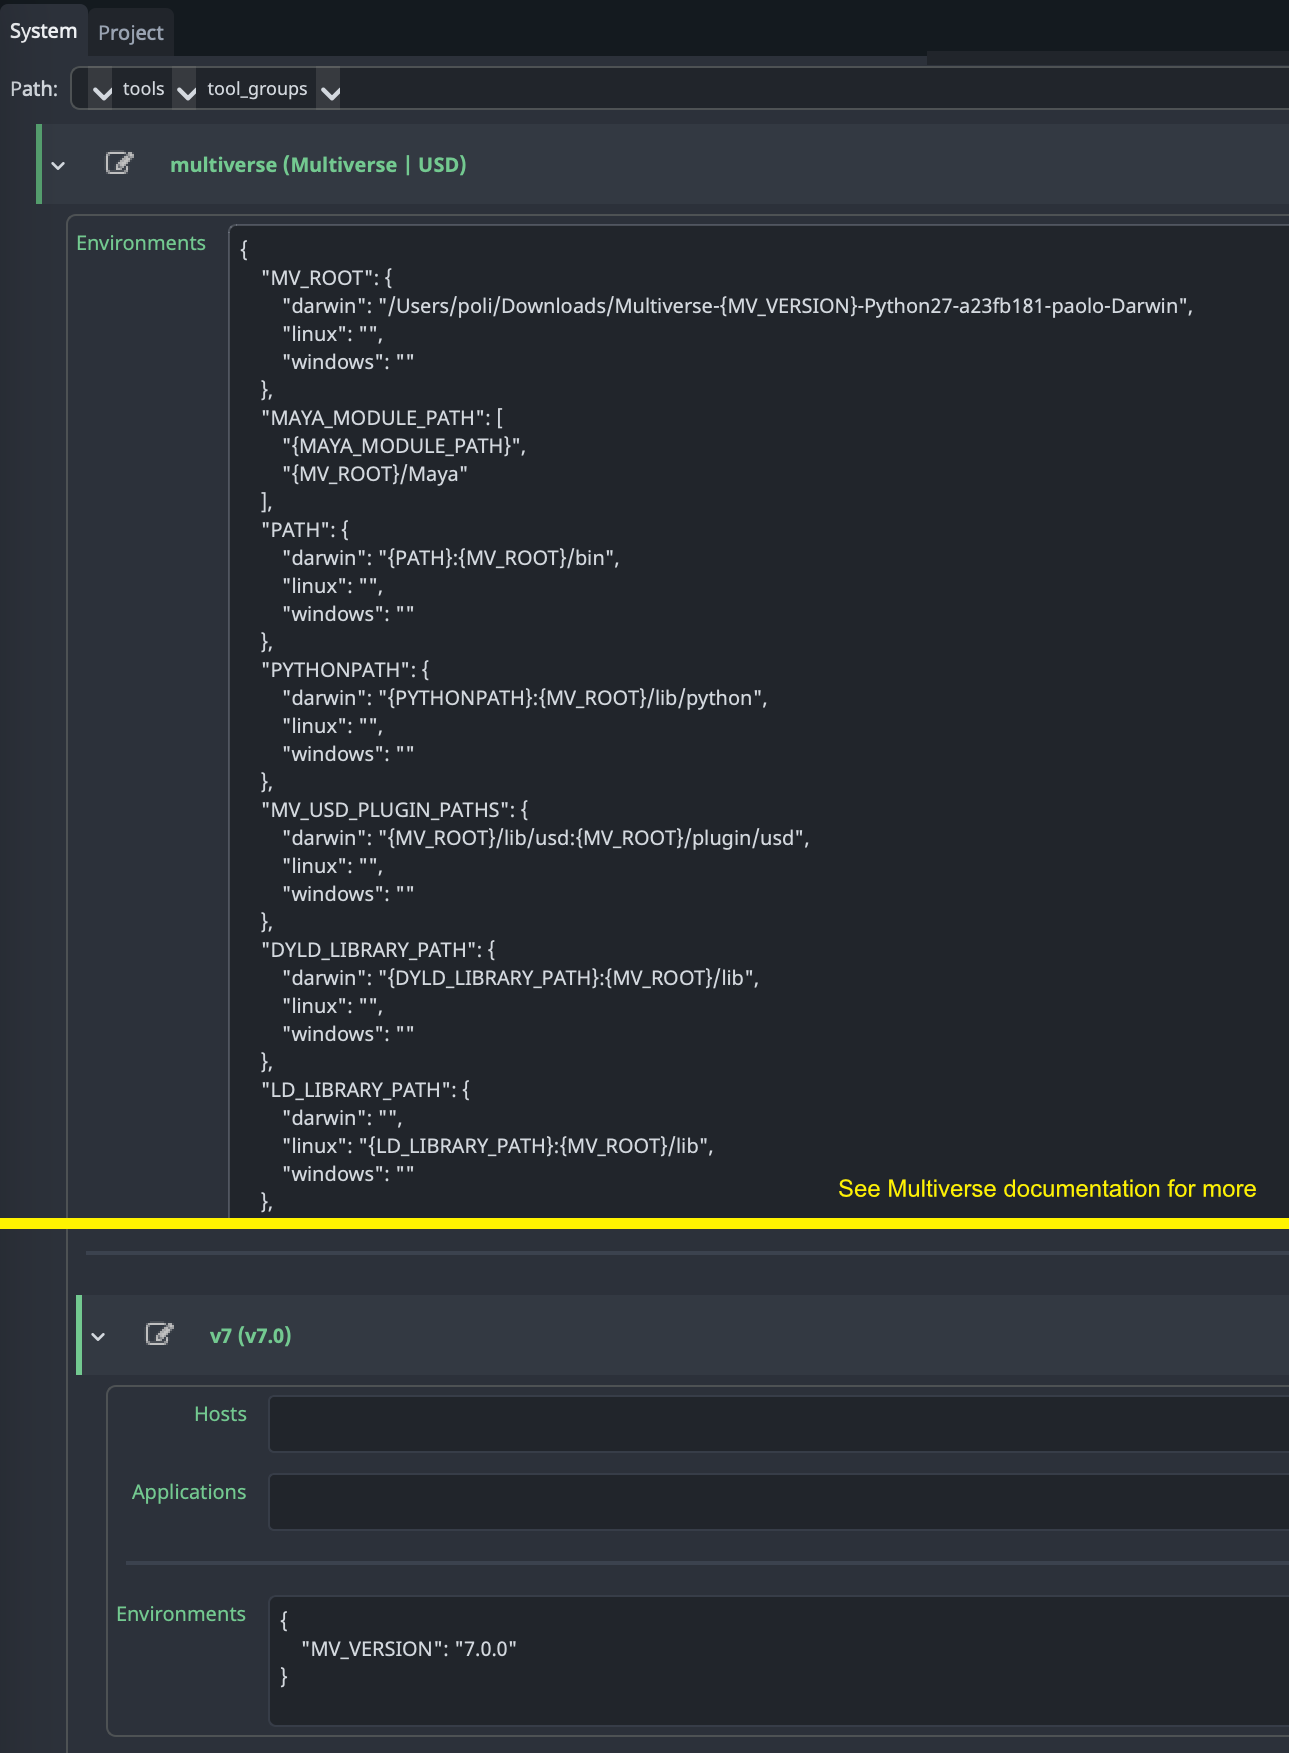
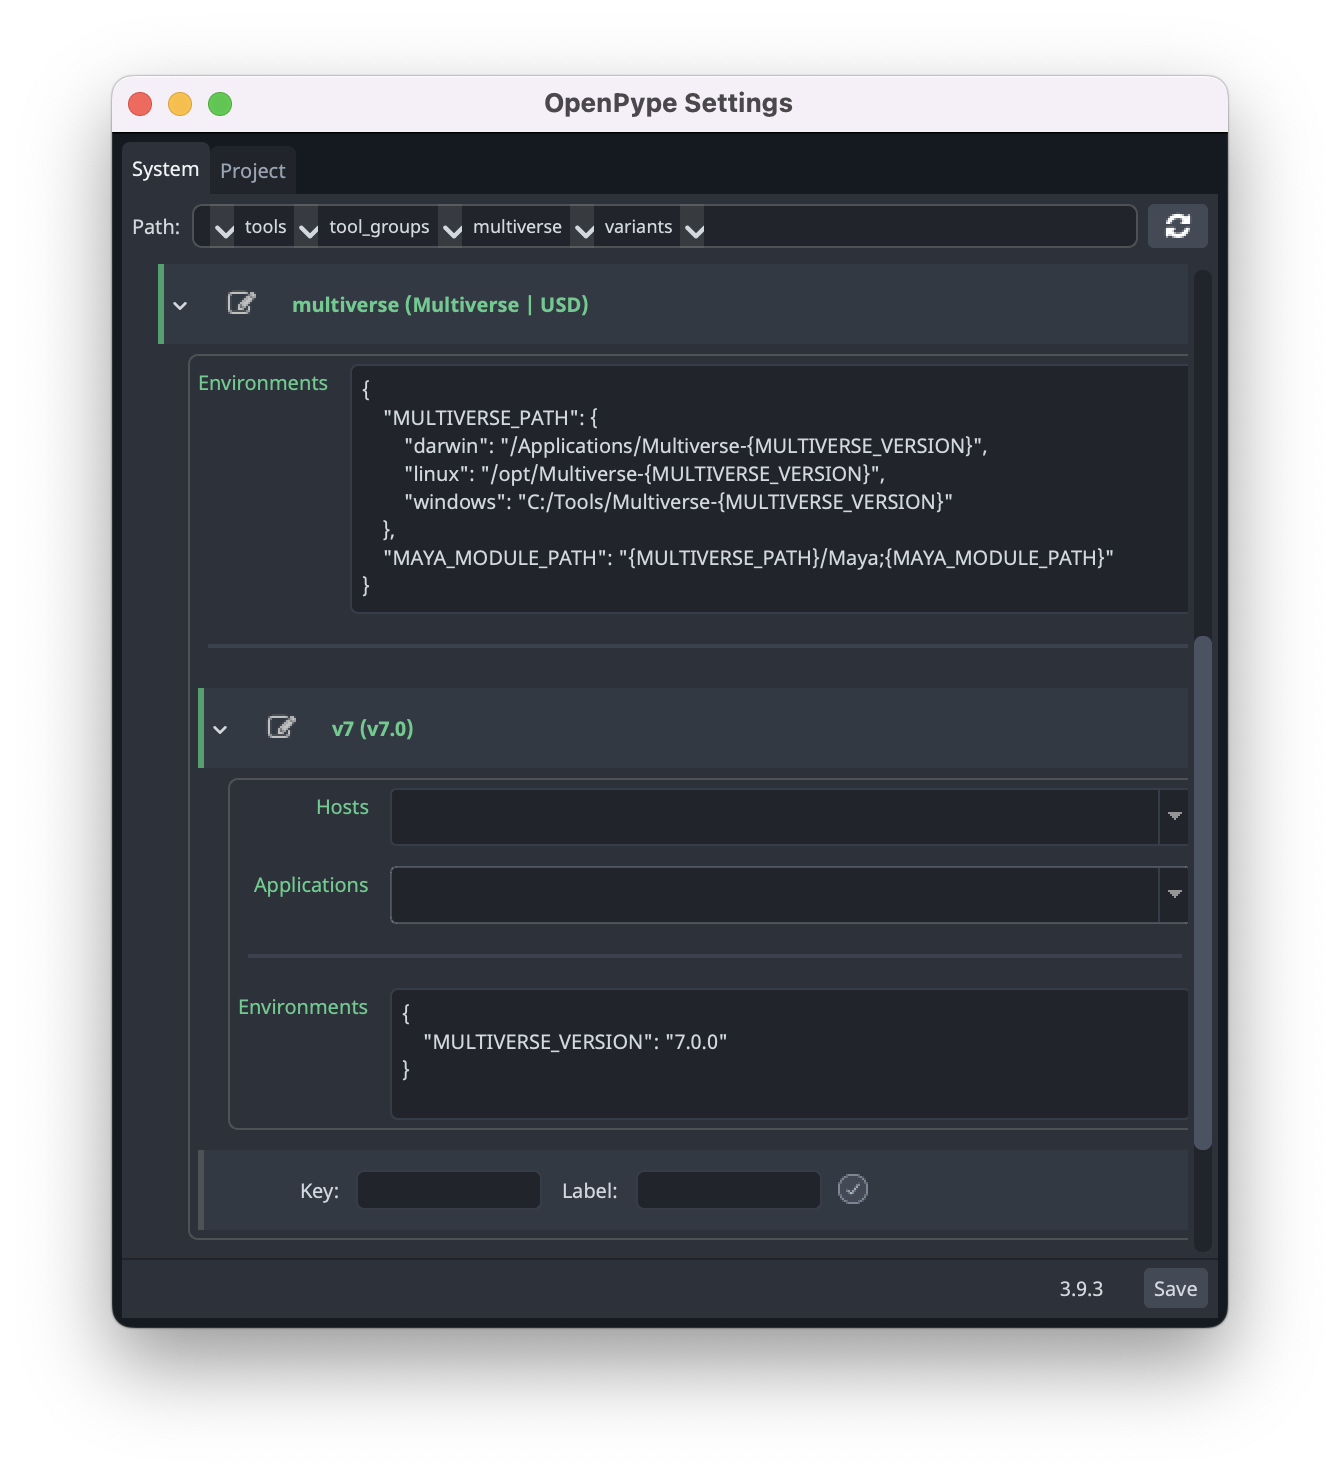
docs: updated / simplified docs in light of upcoming changes

diff --git a/website/docs/artist_hosts_maya_multiverse.md b/website/docs/artist_hosts_maya_multiverse.md
@@ -65,6 +65,25 @@ the one depicted here:
 
 ![Maya - Multiverse Setup](assets/maya-multiverse_setup.png)
 
+
+```
+{
+    "MULTIVERSE_PATH": "/Path/to/Multiverse-{MULTIVERSE_VERSION}",
+    "MAYA_MODULE_PATH": "{MULTIVERSE}/Maya;{MAYA_MODULE_PATH}"
+}
+
+{
+    "MULTIVERSE_VERSION": "7.1.0-py27"
+}
+
+```
+
+The Multiverse Maya module file (.mod) pointed above contains all the necessary
+environment variables to run Multiverse.
+
+The OpenPype settings will contain blocks to enable/disable the Multiverse
+Creators and Loader, along with sensible studio setting.
+
 For more information about setup of Multiverse please refer to the relative page
 on the [Multiverse official documentation](https://multi-verse.io/docs).
 
@@ -94,7 +113,7 @@ You can choose the USD file format in the Creators' set nodes:
 - Assets: `.usd` (default) or `.usda` or `.usdz`
 - Compositions: `.usda` (default) or `.usd`
 - Overrides: `.usda` (default) or `.usd`
-- Looks: `.ma`
+- Looks: `.ma` (default)
 
 ![Maya - Multiverse Asset Creator](assets/maya-multiverse_openpype_asset_creator.png)
 
